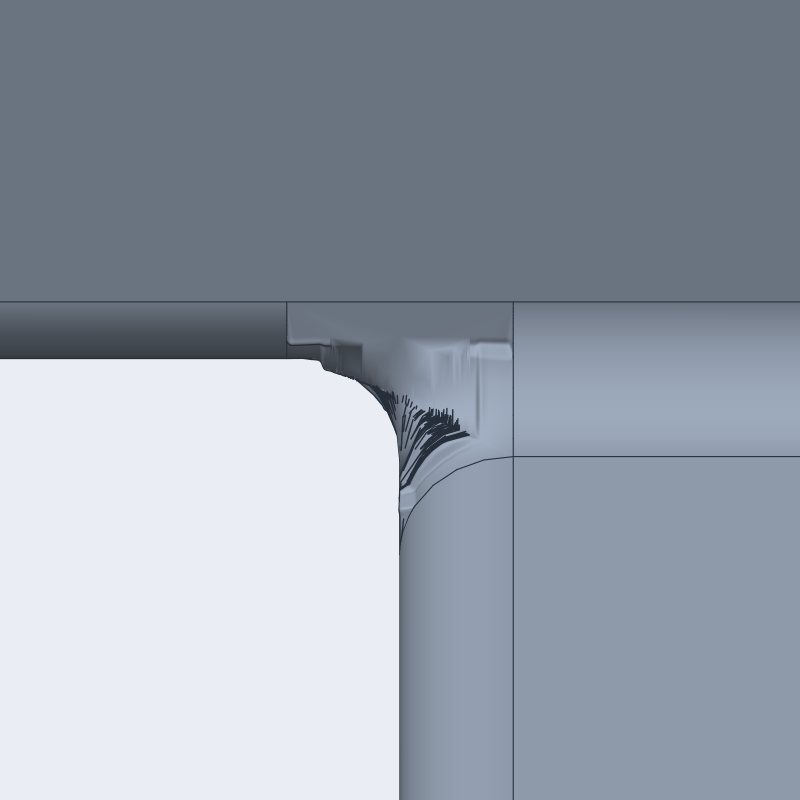
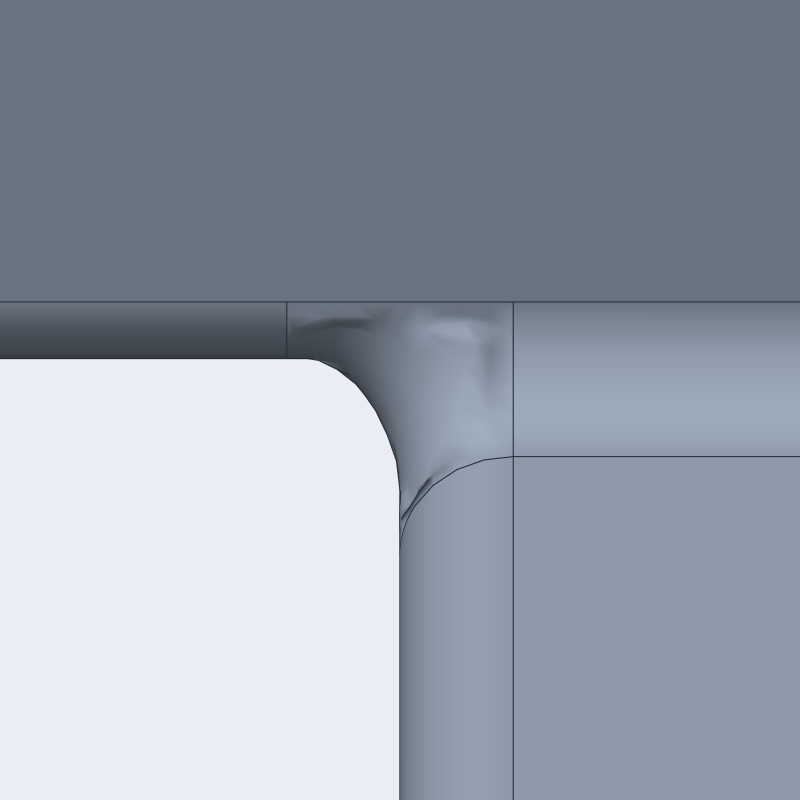
fillet: harmonic patch fill + vertex snap kill the overhang pinch scribble
The dark scribble at the overhang corner's pinch was the patch's own
parametrisation, not the tessellator or the renderer. Both boundary
chains turn ~90deg where two hexagon sides meet (s = 0.5, at
(23, 27, 7.193) and (27, 27, 11.193)), and the Coons blend propagated
that corner along the whole line between them as a fold; the depth
refinement chased it into 3750 needle triangles whose geometric normals
flip at random, which the silhouette test then draws as strokes.

patch_surface now fills the interior with the discrete Dirichlet Laplace
solution of the same four chains (harmonic_fill, exact in the sine basis
of the grid graph), which confines the corner to the boundary the way
OCCT's degree-8 plate does. The crease along u = 0.5 falls from 10.7 deg
at the boundary to 0.0 in the middle instead of sitting at 13 to 15 deg
the whole way; projecting the grid on to OCCT's patch gives mean normal
difference 7.4 deg (max 16.5) instead of 5.5 (max 46.6). G1 projection
bands taper cosinely over CK_G1_FULL/CK_G1_TAPER lines (3/7), which drops
the band-edge normal spike. CK_PATCH_FILL=coons restores the old blend.

The flat fill moved where refinement lands, leaving boundary samples and
the points hugging them a few ulps apart: 182 triangles whose corners
collapsed to one f32 point, whose facet normals are then meaningless.
ck-tess now snaps an emitted vertex onto an already-emitted one within
CK_SNAP_TOL (1e-4, the f32 resolution at these coordinates), reusing the
[…]

Changed region(s): [[0.4375, 0.375, 0.6562, 0.6562], [0.3438, 0.375, 0.4688, 0.4688]]

diff --git a/crates/ck-ops/src/blend/overhang.rs b/crates/ck-ops/src/blend/overhang.rs
@@ -332,12 +332,87 @@ fn chain_at(segs: &[(Vec3, Vec3, Vec3, Vec3, f64)], t: f64) -> Vec3 {
     *c + (*ea * th.cos() + axis.cross(*ea) * th.sin()) * *rr
 }
 
+/// Fill the interior of `grid` (the four boundary rows/columns are already set) with
+/// the discrete Dirichlet Laplace solution.  Computed exactly in the sine basis of the
+/// grid graph, which is orthonormal and symmetric, so the two transforms are the same
+/// matrix product and the result is deterministic.
+fn harmonic_fill(grid: &mut [Vec<Vec3>], n: usize) {
+    let m = n - 2;
+    let den = m as f64 + 1.0;
+    let scale = (2.0 / den).sqrt();
+    let mut v = vec![vec![0.0f64; m]; m];
+    let mut lam = vec![0.0f64; m];
+    for k in 0..m {
+        lam[k] = 2.0 - 2.0 * ((k + 1) as f64 * std::f64::consts::PI / den).cos();
+        for i in 0..m {
+            v[k][i] = scale * ((k + 1) as f64 * (i + 1) as f64 * std::f64::consts::PI / den).sin();
+        }
+    }
+    let mul = |a: &[Vec<f64>], b: &[Vec<f64>]| -> Vec<Vec<f64>> {
+        let mut out = vec![vec![0.0f64; m]; m];
+        for i in 0..m {
+            for k in 0..m {
+                let aik = a[i][k];
+                for j in 0..m {
+                    out[i][j] += aik * b[k][j];
+                }
+            }
+        }
+        out
+    };
+    let comp = |p: Vec3, c: usize| -> f64 {
+        match c {
+            0 => p.x,
+            1 => p.y,
+            _ => p.z,
+        }
+    };
+    for c in 0..3 {
+        let mut b = vec![vec![0.0f64; m]; m];
+        for j in 0..m {
+            for i in 0..m {
+                if i == 0 {
+                    b[i][j] += comp(grid[0][j + 1], c);
+                }
+                if i == m - 1 {
+                    b[i][j] += comp(grid[n - 1][j + 1], c);
+                }
+                if j == 0 {
+                    b[i][j] += comp(grid[i + 1][0], c);
+                }
+                if j == m - 1 {
+                    b[i][j] += comp(grid[i + 1][n - 1], c);
+                }
+            }
+        }
+        let mut y = mul(&mul(&v, &b), &v);
+        for k in 0..m {
+            for l in 0..m {
+                y[k][l] /= lam[k] + lam[l];
+            }
+        }
+        let x = mul(&mul(&v, &y), &v);
+        for j in 0..m {
+            for i in 0..m {
+                let p = &mut grid[i + 1][j + 1];
+                match c {
+                    0 => p.x = x[i][j],
+                    1 => p.y = x[i][j],
+                    _ => p.z = x[i][j],
+                }
+            }
+        }
+    }
+}
+
 /// The patch surface through the hexagon `h` = [W1, A_line, C_line, W2,
-/// D_line, B_line] (module doc): a Coons grid over the four boundary chains
+/// D_line, B_line] (module doc): a grid over the four boundary chains
 /// (bottom W1..B_line through the two arcs, top C_line..D_line, sides the two
-/// lines), with the first interior rows projected into the stripes' cylinder
-/// tangent planes and the first interior columns into the wall planes (the
-/// seams' G1 neighbours), then tensor-product interpolation of the grid.
+/// lines), filled with the discrete Dirichlet Laplace solution so the ~90 deg
+/// corners where hexagon sides meet stay on the boundary, with the first
+/// interior rows projected into the stripes' cylinder tangent planes and the
+/// first interior columns into the wall planes (the seams' G1 neighbours),
+/// then tensor-product interpolation of the grid.
 fn patch_surface(
     h: &[Vec3; 6],
     bottom: [(Vec3, Vec3, Vec3, Vec3); 2], // (from, to, arc centre, strike centre+axis packed below)
@@ -366,18 +441,36 @@ fn patch_surface(
     let bw: Vec<f64> = bc.iter().map(|s| arc_sweep(s.0, s.1, s.2).1).collect();
     let tw: Vec<f64> = tc.iter().map(|s| arc_sweep(s.0, s.1, s.2).1).collect();
     let (bt, tt): (f64, f64) = (bw.iter().sum(), tw.iter().sum());
-    // Coons grid (reproduces the four boundary chains exactly)
+    // The four boundary chains.  The bottom and top chains each carry the ~90 degree
+    // corner where two hexagon sides meet (s = 0.5), so a Coons blend propagates it
+    // along the whole s = 0.5 line as a fold; the tessellator then breaks that fold
+    // into thousands of needle triangles whose geometric normals flip sign, which is
+    // what the renderer draws as a scribble at the pinch.  OCCT's reference patch is
+    // a plate fill that confines the corner to the boundary, so the interior is the
+    // discrete Dirichlet Laplace solution of the same four chains instead.
     let mut grid = vec![vec![Vec3::ZERO; n]; n];
+    for i in 0..n {
+        grid[i][0] = chain_at(&bc, sig[i]);
+        grid[i][n - 1] = chain_at(&tc, sig[i]);
+    }
     for j in 0..n {
-        for i in 0..n {
-            let (s, t) = (sig[i], sig[j]);
-            let bpt = chain_at(&bc, s);
-            let tpt = chain_at(&tc, s);
-            let lpt = bl(h[1], h[2], t);
-            let rpt = bl(h[5], h[4], t);
-            let bil = bl(bl(h[1], h[5], s), bl(h[2], h[4], s), t);
-            grid[i][j] = bpt * (1.0 - t) + tpt * t + lpt * (1.0 - s) + rpt * s - bil;
+        grid[0][j] = bl(h[1], h[2], sig[j]);
+        grid[n - 1][j] = bl(h[5], h[4], sig[j]);
+    }
+    if std::env::var("CK_PATCH_FILL").as_deref() == Ok("coons") {
+        for j in 1..n - 1 {
+            for i in 1..n - 1 {
+                let (s, t) = (sig[i], sig[j]);
+                let bpt = chain_at(&bc, s);
+                let tpt = chain_at(&tc, s);
+                let lpt = bl(h[1], h[2], t);
+                let rpt = bl(h[5], h[4], t);
+                let bil = bl(bl(h[1], h[5], s), bl(h[2], h[4], s), t);
+                grid[i][j] = bpt * (1.0 - t) + tpt * t + lpt * (1.0 - s) + rpt * s - bil;
+            }
         }
+    } else {
+        harmonic_fill(&mut grid, n);
     }
     // strike (centre, axis) covering chain fraction `s`
     let strike_at = |w: &[f64], tot: f64, centres: &[Vec3; 2], ax: &[Vec3; 2], s: f64| -> (Vec3, Vec3) {
@@ -394,13 +487,31 @@ fn patch_surface(
     };
     let bcent: [Vec3; 2] = [bottom[0].3, bottom[1].3];
     let tcent: [Vec3; 2] = [top[0].3, top[1].3];
-    // G1 rows: the fitted cubic's endpoint derivative mixes the first three
-    // interior rows, so all three are projected into the stripe cylinders'
-    // tangent planes (one row leaves a g2 term ~24 degrees off).
+    // G1 rows/columns: the fitted cubic's endpoint derivative mixes the first
+    // three interior lines, so those are projected into the stripe cylinders'
+    // tangent planes (one row leaves a g2 term ~24 degrees off). The projection
+    // tapers off over the next few lines: a band that stops dead ends in a
+    // crease the interpolant then rings around.
+    let env_u = |k: &str| std::env::var(k).ok().and_then(|v| v.parse::<usize>().ok());
+    let g1_full = env_u("CK_G1_FULL").unwrap_or(3);
+    let g1_taper = env_u("CK_G1_TAPER").unwrap_or(7).max(g1_full);
+    let g1w = |depth: usize| -> f64 {
+        if g1_full == 0 {
+            return 0.0;
+        }
+        if depth <= g1_full {
+            1.0
+        } else if depth >= g1_taper {
+            0.0
+        } else {
+            let t = (depth - g1_full) as f64 / (g1_taper - g1_full) as f64;
+            0.5 * (1.0 + (std::f64::consts::PI * t).cos())
+        }
+    };
     for &(vert, w, tot, cent, ax) in &[(0usize, &bw, bt, &bcent, &bottom_ax), (n - 1, &tw, tt, &tcent, &top_ax)] {
         let step: isize = if vert == 0 { 1 } else { -1 };
-        for depth in 1..=7 {
-            let j = vert as isize + step * depth;
+        for depth in 1..=g1_taper.max(1) {
+            let j = vert as isize + step * depth as isize;
             if j < 0 || j >= n as isize {
                 continue;
             }
@@ -414,7 +525,7 @@ fn patch_surface(
                 }
                 rad = rad.normalize();
                 let p = grid[i][j];
-                grid[i][j] = p - rad * ((p - q).dot(rad));
+                grid[i][j] = p - rad * ((p - q).dot(rad)) * g1w(depth);
                 if std::env::var_os("CK_BLEND_DEBUG").is_some() && depth == 1 && (i == n / 4 || i == 3 * n / 4) {
                     eprintln!("g1 row: i={i} j={j} sc=({:.2},{:.2},{:.2}) shift={:.6}", sc.x, sc.y, sc.z, (p - grid[i][j]).len());
                 }
@@ -424,8 +535,8 @@ fn patch_surface(
     // G1 columns: same stencil into the wall planes
     for &(vert, nrm) in &[(0usize, wall_n.0), (n - 1, wall_n.1)] {
         let step: isize = if vert == 0 { 1 } else { -1 };
-        for depth in 1..=7 {
-            let i = vert as isize + step * depth;
+        for depth in 1..=g1_taper.max(1) {
+            let i = vert as isize + step * depth as isize;
             if i < 0 || i >= n as isize {
                 continue;
             }
@@ -433,7 +544,7 @@ fn patch_surface(
             for j in 1..n - 1 {
                 let q = grid[vert][j];
                 let p = grid[i][j];
-                grid[i][j] = p - nrm * ((p - q).dot(nrm));
+                grid[i][j] = p - nrm * ((p - q).dot(nrm)) * g1w(depth);
             }
         }
     }

diff --git a/crates/ck-tess/src/face.rs b/crates/ck-tess/src/face.rs
@@ -1110,6 +1110,11 @@ fn mesh_face_impl(body: &Body, f: FaceId, params: &[Vec<f64>], virt: &[(bool, bo
             }
         }
     }
+    // Two emitted vertices closer than this are the same point for the wire: f32 at coordinates of a
+    // few hundred only resolves ~1e-5, and the boundary sample / refinement-point pairs we are
+    // snapping sit under 1e-4. Over-snapping collapses a triangle whose neighbours still span the
+    // edge and leaves a hole, so the gate's open-mesh check is the arbiter of the value.
+    let snap_tol: f64 = std::env::var("CK_SNAP_TOL").ok().and_then(|v| v.parse().ok()).unwrap_or(1e-4);
     for (_, v) in tri.cdt.inside_tris() {
         if strict_plane {
             let c = (0..3).fold(Vec2::ZERO, |acc, k| acc + from_c(tri.cdt.pts[v[k] as usize]) * (1.0 / 3.0));
@@ -1118,24 +1123,43 @@ fn mesh_face_impl(body: &Body, f: FaceId, params: &[Vec<f64>], virt: &[(bool, bo
             }
         }
         let mut ids = [0u32; 3];
+        let mut id_of = |cv: u32, out: &mut FaceMesh, local: &mut HashMap<u32, u32>| -> u32 {
+            if let Some(&id) = local.get(&cv) {
+                return id;
+            }
+            let (uv, p) = match vdata.get(&cv) {
+                Some(&d) => d,
+                None => {
+                    let uv = from_c(tri.cdt.pts[cv as usize]);
+                    let e = wrap_eval(uv);
+                    (uv, surf.eval(e.x, e.y))
+                }
+            };
+            let e = wrap_eval(uv);
+            out.uv.push(uv);
+            out.pts.push(p);
+            out.nrm.push(FaceMesh::outward(surf, sense, e));
+            (out.pts.len() - 1) as u32
+        };
         for k in 0..3 {
-            let cv = v[k];
-            let id = *local.entry(cv).or_insert_with(|| {
-                let (uv, p) = match vdata.get(&cv) {
-                    Some(&d) => d,
-                    None => {
-                        let uv = from_c(tri.cdt.pts[cv as usize]);
-                        let e = wrap_eval(uv);
-                        (uv, surf.eval(e.x, e.y))
-                    }
-                };
-                let e = wrap_eval(uv);
-                out.uv.push(uv);
-                out.pts.push(p);
-                out.nrm.push(FaceMesh::outward(surf, sense, e));
-                (out.pts.len() - 1) as u32
-            });
-            ids[k] = id;
+            ids[k] = id_of(v[k], &mut out, &mut local);
+        }
+        // Boundary samples and the refinement points hugging them land within a hair of each other
+        // (the refitted pcurve puts the straight side chains a few ulps off their isoparametric line),
+        // so snap the vertex onto an already-emitted one that is closer than the wire's f32 can tell
+        // apart; otherwise the pair survives as two points that round to one f32 and the triangle
+        // between them has no area for the renderer.
+        for k in 0..3 {
+            for j in 0..k {
+                if ids[k] != ids[j] && (out.pts[ids[k] as usize] - out.pts[ids[j] as usize]).len() < snap_tol {
+                    local.insert(v[k], ids[j]);
+                    ids[k] = ids[j];
+                    break;
+                }
+            }
+        }
+        if ids[0] == ids[1] || ids[1] == ids[2] || ids[0] == ids[2] {
+            continue;
         }
         let (pa, pb, pc) = (out.pts[ids[0] as usize], out.pts[ids[1] as usize], out.pts[ids[2] as usize]);
         if (pb - pa).cross(pc - pa).len2() <= 0.0 {

diff --git a/docs/blend-corpus.md b/docs/blend-corpus.md
@@ -106,7 +106,7 @@ the four end arcs plus the two spring lines bound one spline patch. The result o
 does: 4 cylinders (`F9.B0..B3`), the patch (`F9.P0`, kind `spline`), 11 planes. Cases `overhang_*` are in
 `tools/blend_corpus.mjs` with OCCT volumes in `tools/blend_reference.json` and run in the gate; `node tools/blend_corpus.mjs
 --only overhang` gives 5 ok / 0 failed / 2 without reference - `overhang_concave_r2` and `overhang_three_r2`, where OCCT
-itself reports `Build failed` - and `overhang_skew_refused`, which expects the refusal. Volumes are 1.3e-7 to 2.3e-7
+itself reports `Build failed` - and `overhang_skew_refused`, which expects the refusal. Volumes are 1.2e-7 to 2.2e-7
 relative to OCCT. `crates/ck-model/tests/blend_overhang.rs` checks the face count and, on the result body, G1 from the patch
 to each stripe along its arc (`assert_wraps`); `g1Defect` in the corpus does not look at `P0` (`isBlend` only matches `.B`
 and `.V` faces), so those seams are covered by the Rust tests alone.
@@ -114,16 +114,29 @@ and `.V` faces), so those seams are covered by the Rust tests alone.
 Close-ups of the r = 2 corner at (25, 27, 9.193), framed on the vertex (6.5 mm), azimuth/elevation 180/30 and 225/30, kit
 snapshot renderer over the wasm built from this branch: `overhang_r2_a1.png`, `overhang_r2_a2.png`. By eye every seam is
 clean: the cove under the ledge and the round on the wall run into their spring lines with no gap and no step, in both views,
-and the band ends stop short of the vertex plane as OCCT's do. What is not clean is the patch's display mesh within about
-3 mm of the pinch: of its 6064 triangles (mean edge 0.073 mm) 1100 shared edges have a signed dihedral over 90 deg, all of
-them inside x 23.8..26.2, y 25.9..28.2, z 8.0..10.4, 616 triangles are wound against the average of their neighbours and 260
-against their own vertex normals. Taking the absolute value of the dot product removes all of it (max unsigned dihedral
-under 90 deg), so the sheet does not fold over itself: it is crinkled and much of it is wound backwards, which is what draws
-the dark scribble at the tip in both pictures. Every overhang fixture reports the same counts (same corner, same r); the
-regular corner fixtures (`1207-arc-edge-boss-r2*`, `556-box-*`) report none, though they are not the same pinch, so that is
-a pointer rather than a like-for-like comparison. The B-rep level checks are unaffected - face count, volumes, `assert_wraps`
-all pass - so this sits in the display mesh of the patch around its singular point, open as a follow-up: partly the price of
-a genuinely pinched surface, but 260 triangles wound against their own vertex normals are not.
+and the band ends stop short of the vertex plane as OCCT's do.
+
+The patch's display mesh used to crinkle at the pinch - of its 6064 triangles 1100 shared edges had a signed dihedral over
+90 deg, 616 were wound against the average of their neighbours and 260 against their own vertex normals, which is what drew
+the dark scribble at the tip in both pictures. The cause was not the tessellator but the patch's own parametrisation: both
+boundary chains turn through about 90 deg where two hexagon sides meet (s = 0.5, at (23, 27, 7.193) and (27, 27, 11.193)),
+and the Coons blend propagates that corner along the whole line between them as a fold, which the depth refinement in
+`ck-tess` then chases into 3750 needle triangles whose geometric normals flip at random. `patch_surface` now fills the
+interior with the discrete Dirichlet Laplace solution of the same four chains (`harmonic_fill`), which confines the corner
+to the boundary the way OCCT's degree-8 plate does: the crease along u = 0.5 falls from 10.7 deg at the boundary to 0.0 in
+the middle instead of sitting at 13 to 15 deg the whole way, and projecting the grid on to OCCT's patch gives a mean normal
+difference of 7.4 deg (max 16.5) instead of 5.5 (max 46.6). The patch is now 632 triangles with a mean dihedral of 7.7 deg,
+none wound against their own vertex normals and 2 against their neighbours' average, and no edge over 90 deg draws a stroke:
+the 4 that remain (92 to 95 deg) sit where a curved chain turns near a hexagon corner, where the boundary itself turns.
+The flat fill moved where the depth refinement lands, and it used to leave boundary samples and the refinement points hugging
+them a few ulps apart - 182 triangles whose corners collapsed to one f32 point (the old blend emitted none), which the wire
+rounds to zero area and the renderer then draws with a meaningless facet normal. `ck-tess` now snaps an emitted vertex onto
+an already-emitted one within `CK_SNAP_TOL` (default 1e-4, the f32 resolution at these coordinates): that takes the patch to
+6 zero-area and 4 hairline triangles, and no triangle is wound against its own vertex normals any more (2 still disagree
+with their neighbours' average). Volumes improve marginally. `CK_PATCH_FILL=coons`
+restores the old blend for comparison in native runs (the wasm build always takes the default); the seams (`assert_wraps`),
+face count and volumes are unaffected either way. The gate's one soft drop (`regen.brep.mesh` -1) is the pre-existing
+`flangeBolt@13` tessellation-open issue, present on `kernel.wasm` too and unrelated to this change.
 
 ## What remains
 
